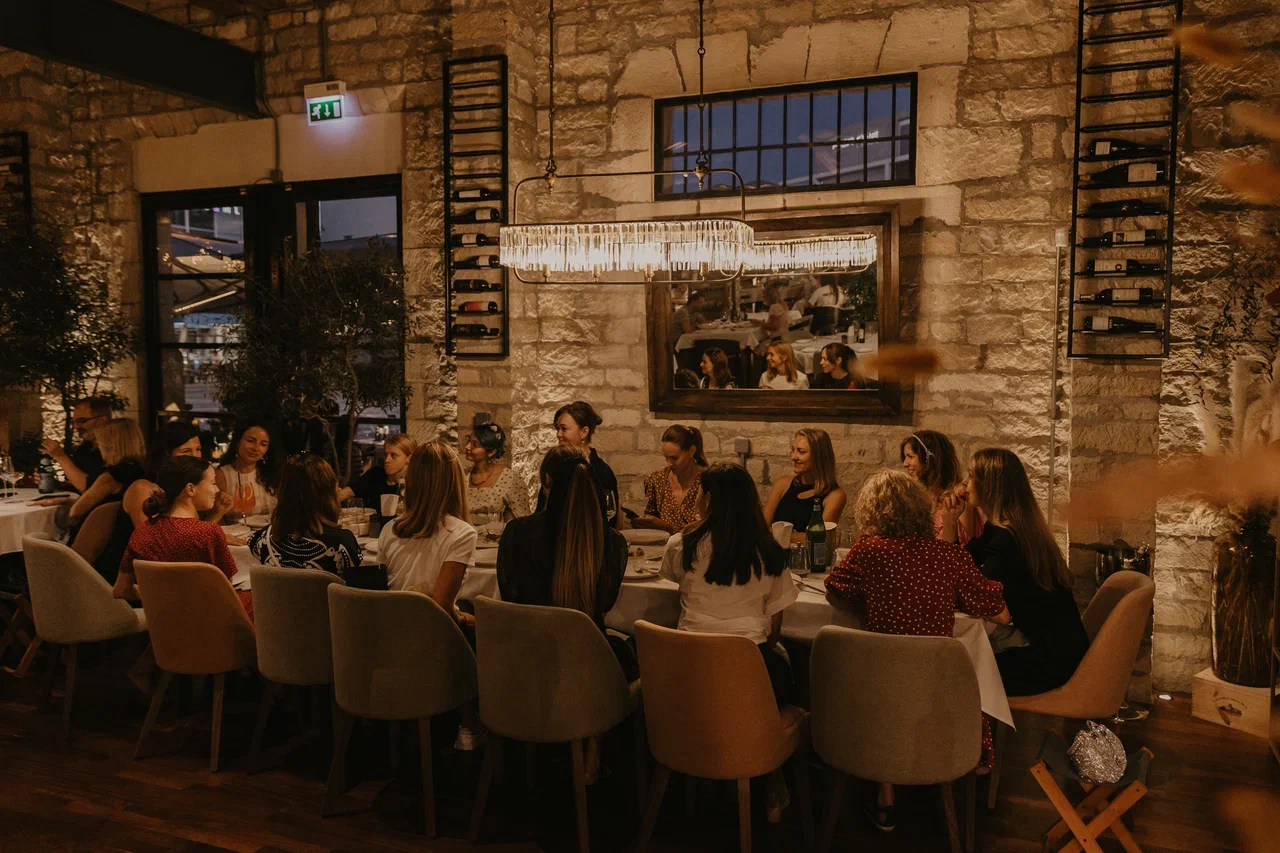
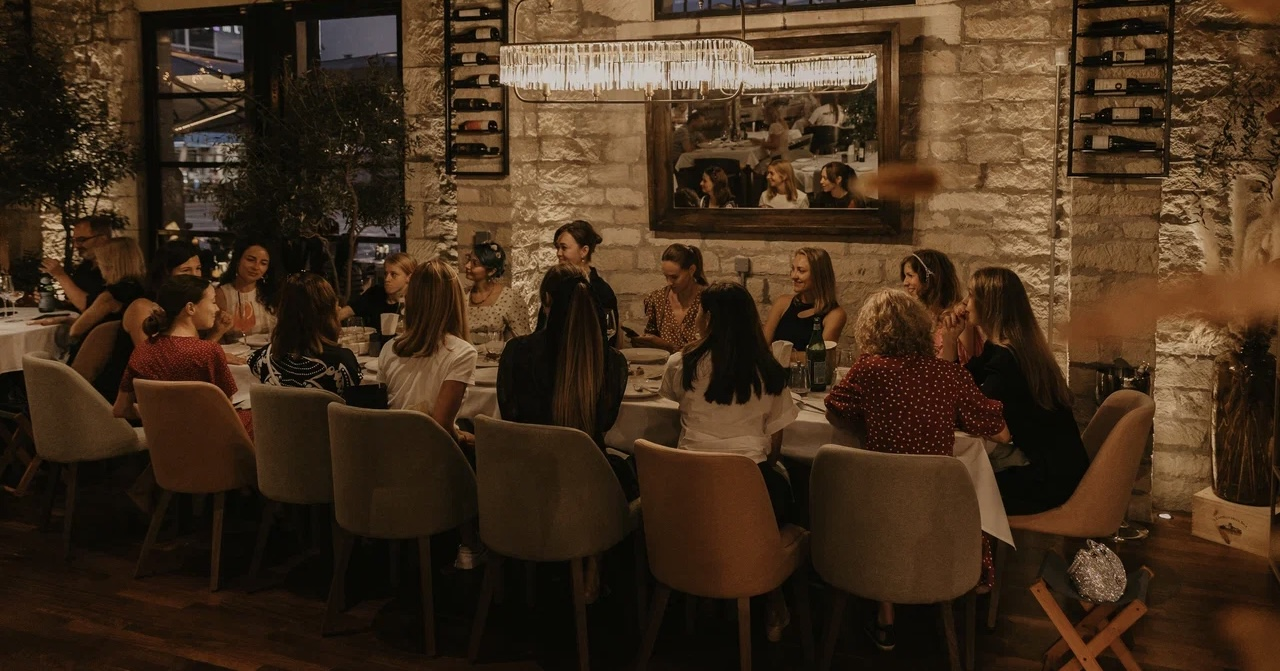
cutted head

diff --git a/src/styles/global.css b/src/styles/global.css
@@ -342,10 +342,6 @@ body{font-family:var(--serif)}
 }
 
 /* v9 requested adjustments */
-.hero-copy .hero-subtitle,
-.hero-copy > p:first-of-type{
-  margin-top:56px;
-}
 
 .author-events-more{
   display:none;
@@ -369,4 +365,9 @@ body{font-family:var(--serif)}
 }
 @media (max-width:900px){
   .author-events-more.is-open{grid-template-columns:1fr}
+}
+
+/* v9 fix: move the actual subtitle below the oversized handwritten title */
+.hero-copy h2{
+  margin-top:96px;
 }
